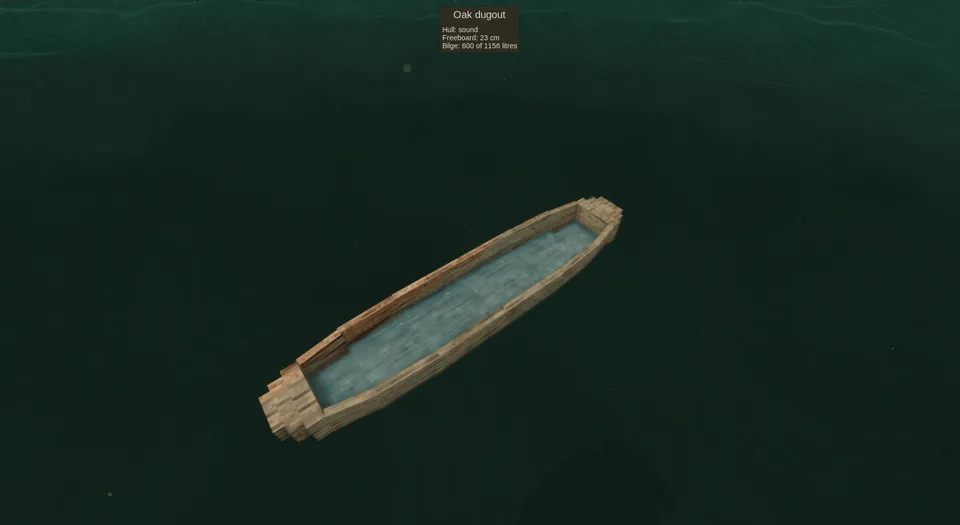
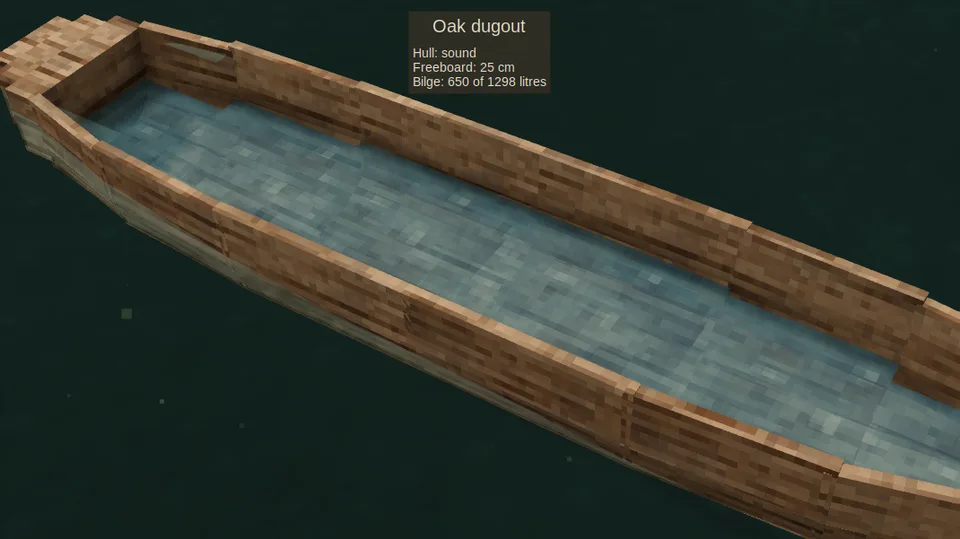
212 docs: the bailing photo retaken at half the dugout's new hold
[claude-opus-5-5] on behalf of hoblin

diff --git a/docs/wiki/Bailing.md b/docs/wiki/Bailing.md
@@ -2,7 +2,7 @@ Boats with a hull hold the water that comes aboard in their bilge, and nothing t
 
 ## The bilge
 
-![An oak dugout half full, her bilge at 600 of 1156 litres and her side down to 23 cm](images/mechanics/dugout-bilge.webp)
+![An oak dugout half full, her bilge at 650 of 1298 litres and her side down to 25 cm](images/mechanics/dugout-bilge.webp)
 
 | Vessel | Bilge | Deck open to the rain |
 | --- | --- | --- |
